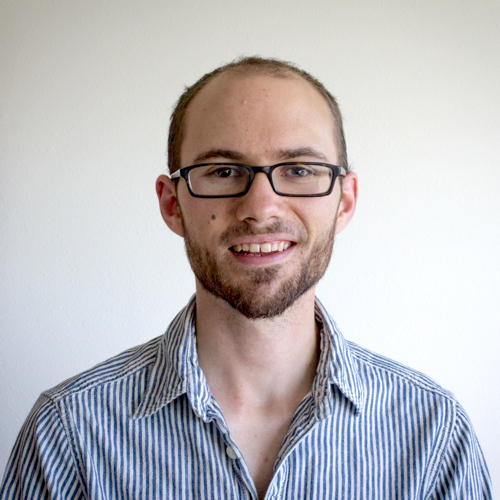
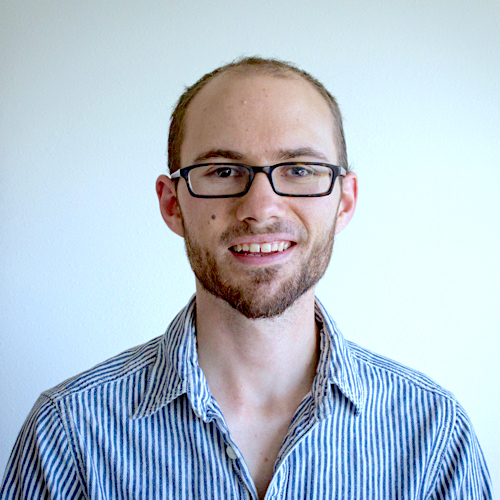
reformatted CSS

diff --git a/css/resume.css b/css/resume.css
@@ -1,142 +1,161 @@
 body {
-    font-family: 'Tenor Sans', sans-serif;
+    font-family: 'Roboto Slab', serif;
+    /* font-family: 'Tenor Sans', sans-serif; */
     padding-top: 54px;
-    color: #868e96; }
-
+    color: #F8F8FF;
+}
 @media (min-width: 992px) {
-  body {
-    padding-top: 0;
-    padding-left: 17rem; } }
+    body {
+        padding-top: 0;
+        padding-left: 17rem;
+    }
+}
 
 h1,
 h2,
 h3,
-h4,
 h5,
 h6 {
-    font-family: 'Archivo Black', sans-serif;
-  font-weight: 700;
-  text-transform: uppercase;
-  color: #343a40; }
+    font-family: 'Oxygen', sans-serif;
+    font-weight: 700;
+    text-transform: uppercase;
+}
 
 h1 {
-  font-size: 5rem;
-  line-height: 5.5rem; }
+    font-size: 5rem;
+    line-height: 5.5rem;
+}
 
 h2 {
-  font-size: 3.5rem; }
+    font-size: 3.5rem;
+}
+
+h4 {
+    font-family: 'Roboto Slab', serif;
+    text-transform: uppercase;
+}
 
 .subheading {
-  /*text-transform: uppercase;*/
-  font-weight: 500;
-  font-family: 'Archivo Black', sans-serif;
-  font-size: 1.35rem;
-  color: #2978A0;
+    font-weight: 500;
+    font-size: 1.35rem;
+    color: #157EFB;
 }
 
 .list-social-icons a {
-  color: #495057;
+    color: #F8F8FF;
 }
-  .list-social-icons a:hover {
-    color: #B4DAB9;
+.list-social-icons a:hover {
+    color: rgba(248, 248, 255, 0.8);
 }
-  .list-social-icons a .fa-lg {
+.list-social-icons a .fa-lg {
     font-size: 1.75rem;
 }
 
-.list-icons {
-  font-size: 3rem; }
-  .list-icons .list-inline-item i:hover {
-    color: #B4DAB9; }
-
 #sideNav .navbar-nav .nav-item .nav-link {
-  font-weight: 600;
-  text-transform: uppercase; }
-
+    font-weight: 600;
+    text-transform: uppercase;
+}
 @media (min-width: 992px) {
-  #sideNav {
-    text-align: center;
-    position: fixed;
-    top: 0;
-    left: 0;
-    display: flex;
-    flex-direction: column;
-    width: 17rem;
-    height: 100vh; }
+    #sideNav {
+        font-family: 'Oxygen', sans-serif;
+
+        text-align: center;
+        position: fixed;
+        top: 0;
+        left: 0;
+        display: flex;
+        flex-direction: column;
+        width: 17rem;
+        height: 100vh;
+    }
     #sideNav .navbar-brand {
-      display: flex;
-      margin: auto auto 0;
-      padding: 0.5rem; }
-      #sideNav .navbar-brand .img-profile {
+        display: flex;
+        margin: auto auto 0;
+        padding: 0.5rem;
+    }
+    #sideNav .navbar-brand .img-profile {
         max-width: 10rem;
         max-height: 10rem;
-        border: 0.5rem solid rgba(255, 255, 255, 0.2); }
+        border: 0.5rem solid rgba(255, 255, 255, 0.2);
+    }
     #sideNav .navbar-collapse {
-      display: flex;
-      align-items: flex-start;
-      flex-grow: 0;
-      width: 100%;
-      margin-bottom: auto; }
-      #sideNav .navbar-collapse .navbar-nav {
+        display: flex;
+        align-items: flex-start;
+        flex-grow: 0;
+        width: 100%;
+        margin-bottom: auto;
+    }
+    #sideNav .navbar-collapse .navbar-nav {
         flex-direction: column;
-        width: 100%; }
-        #sideNav .navbar-collapse .navbar-nav .nav-item {
-          display: block; }
-          #sideNav .navbar-collapse .navbar-nav .nav-item .nav-link {
-            display: block; } }
+        width: 100%;
+    }
+    #sideNav .navbar-collapse .navbar-nav .nav-item {
+        display: block;
+    }
+    #sideNav .navbar-collapse .navbar-nav .nav-item .nav-link {
+        display: block;
+    }
+}
 
 section.resume-section {
 
-  border-bottom: 1px solid #dee2e6;
-  padding-top: 5rem !important;
-  padding-bottom: 5rem !important; }
-  section.resume-section .resume-item .img-project {
-    min-width: none; }
-
+    padding-top: 5rem !important;
+    padding-bottom: 5rem !important;
+}
+section.resume-section .resume-item .img-project {
+    min-width: none;
+}
 @media (min-width: 768px) {
-  section.resume-section {
-    min-height: 100vh; }
+    section.resume-section {
+        min-height: 100vh;
+    }
     section.resume-section .resume-item .img-project {
-      min-width: 18rem; } }
-
+        min-width: 18rem;
+    }
+}
 @media (min-width: 992px) {
-  section.resume-section {
-    padding-top: 3rem !important;
-    padding-bottom: 3rem !important; } }
+    section.resume-section {
+        padding-top: 3rem !important;
+        padding-bottom: 3rem !important;
+    }
+}
 
-
+[class*=" devicon-"],
+[class^=devicon-] {
+    color: ghostwhite;
+}
 
 .bg-primary {
-  background-color: #B4DAB9 !important; }
+    background-color: #1434F7!important;
+}
 
-.text-primary {
-  color: #B4DAB9 !important; }
-
-a {
-  color: #B4DAB9; }
-  a:hover, a:focus, a:active {
-    color: #2978A0; }
+.heading-color {
+    color: #157EFB !important;
+}
 
 .img-profile {
-    filter: sepia(25%);
+    /* filter: sepia(25%); */
 }
 
 .img-project {
-        transition: ease-out;
-        transition-property: opacity;
-        transition-duration: 1s;
-        opacity: 0.5;
-    }
-
+    transition: ease-out;
+    transition-property: opacity;
+    transition-duration: 1s;
+    opacity: 0.5;
+}
 .img-project:hover {
-        transition: ease-in;
-        transition-property: opacity;
-        transition-duration: 1s;
-        opacity: 1.0;
-    }
+    transition: ease-in;
+    transition-property: opacity;
+    transition-duration: 1s;
+    opacity: 1.0;
+}
 
 section {
-    background-color: #ECE8DA;
+    background-color: #022F40;
+}
+
+.fa-inverse {
+    color: #1434F7;
 }
 /* Note to self:  */
 /* run CSS thru Auto Prefixer, then minifier, then link HTML to .min.css */

diff --git a/css/resume.min.css b/css/resume.min.css
@@ -1,1 +1,1 @@
-body{font-family:'Tenor Sans',sans-serif;padding-top:54px;color:#868e96}.subheading,h1,h2,h3,h4,h5,h6{font-family:'Archivo Black',sans-serif}h1,h2,h3,h4,h5,h6{font-weight:700;text-transform:uppercase;color:#343a40}h1{font-size:5rem;line-height:5.5rem}h2{font-size:3.5rem}.subheading{font-weight:500;font-size:1.35rem;color:#2978A0}.list-social-icons a{color:#495057}.list-icons .list-inline-item i:hover,.list-social-icons a:hover{color:#B4DAB9}.list-social-icons a .fa-lg{font-size:1.75rem}.list-icons{font-size:3rem}#sideNav .navbar-nav .nav-item .nav-link{font-weight:600;text-transform:uppercase}@media (min-width:992px){body{padding-top:0;padding-left:17rem}#sideNav{text-align:center;position:fixed;top:0;left:0;display:flex;flex-direction:column;width:17rem;height:100vh}#sideNav .navbar-brand{display:flex;margin:auto auto 0;padding:.5rem}#sideNav .navbar-brand .img-profile{max-width:10rem;max-height:10rem;border:.5rem solid rgba(255,255,255,.2)}#sideNav .navbar-collapse{display:flex;align-items:flex-start;flex-grow:0;width:100%;margin-bottom:auto}#sideNav .navbar-collapse .navbar-nav{flex-direction:column;width:100%}#sideNav .navbar-collapse .navbar-nav .nav-item,#sideNav .navbar-collapse .navbar-nav .nav-item .nav-link{display:block}}section.resume-section{border-bottom:1px solid #dee2e6;padding-top:5rem!important;padding-bottom:5rem!important}section.resume-section .resume-item .img-project{min-width:none}@media (min-width:768px){section.resume-section{min-height:100vh}section.resume-section .resume-item .img-project{min-width:18rem}}@media (min-width:992px){section.resume-section{padding-top:3rem!important;padding-bottom:3rem!important}}.bg-primary{background-color:#B4DAB9!important}.text-primary{color:#B4DAB9!important}a{color:#B4DAB9}a:active,a:focus,a:hover{color:#2978A0}.img-profile{filter:sepia(25%)}.img-project{transition:ease-out;transition-property:opacity;transition-duration:1s;opacity:.5}.img-project:hover{transition:ease-in;transition-property:opacity;transition-duration:1s;opacity:1}section{background-color:#ECE8DA}
+body{font-family:'Roboto Slab', serif;padding-top:54px;color:#F8F8FF}@media (min-width: 992px){body{padding-top:0;padding-left:17rem}}h1,h2,h3,h5,h6{font-family:'Oxygen', sans-serif;font-weight:700;text-transform:uppercase}h1{font-size:5rem;line-height:5.5rem}h2{font-size:3.5rem}h4{font-family:'Roboto Slab', serif;text-transform:uppercase}.subheading{font-weight:500;font-size:1.35rem;color:#157EFB}.list-social-icons a{color:#F8F8FF}.list-social-icons a:hover{color:rgba(248, 248, 255, 0.8)}.list-social-icons a .fa-lg{font-size:1.75rem}#sideNav .navbar-nav .nav-item .nav-link{font-weight:600;text-transform:uppercase}@media (min-width: 992px){#sideNav{font-family:'Oxygen', sans-serif;text-align:center;position:fixed;top:0;left:0;display:flex;flex-direction:column;width:17rem;height:100vh}#sideNav .navbar-brand{display:flex;margin:auto auto 0;padding:0.5rem}#sideNav .navbar-brand .img-profile{max-width:10rem;max-height:10rem;border:0.5rem solid rgba(255, 255, 255, 0.2)}#sideNav .navbar-collapse{display:flex;align-items:flex-start;flex-grow:0;width:100%;margin-bottom:auto}#sideNav .navbar-collapse .navbar-nav{flex-direction:column;width:100%}#sideNav .navbar-collapse .navbar-nav .nav-item{display:block}#sideNav .navbar-collapse .navbar-nav .nav-item .nav-link{display:block}}section.resume-section{padding-top:5rem !important;padding-bottom:5rem !important}section.resume-section .resume-item .img-project{min-width:none}@media (min-width: 768px){section.resume-section{min-height:100vh}section.resume-section .resume-item .img-project{min-width:18rem}}@media (min-width: 992px){section.resume-section{padding-top:3rem !important;padding-bottom:3rem !important}}[class*=" devicon-"],[class^=devicon-]{color:ghostwhite}.bg-primary{background-color:#1434F7!important}.heading-color{color:#157EFB !important}.img-profile{}.img-project{transition:ease-out;transition-property:opacity;transition-duration:1s;opacity:0.5}.img-project:hover{transition:ease-in;transition-property:opacity;transition-duration:1s;opacity:1.0}section{background-color:#022F40}.fa-inverse{color:#1434F7}

diff --git a/index.html b/index.html
@@ -18,14 +18,14 @@
 
 
     <!-- fonts -->
-    <link href="https://fonts.googleapis.com/css?family=Archivo+Black|Julius+Sans+One|Tenor+Sans" rel="stylesheet">
+    <link href="https://fonts.googleapis.com/css?family=Oxygen|Roboto+Slab" rel="stylesheet">
     <link href="vendor/font-awesome/css/font-awesome.min.css" rel="stylesheet">
     <link href="vendor/devicons/css/devicons.min.css" rel="stylesheet">
     <link href="vendor/simple-line-icons/css/simple-line-icons.css" rel="stylesheet">
 
     <!-- Custom styles for this template -->
-    <link href="css/resume.min.css" rel="stylesheet">
-
+    <!-- <link href="css/resume.min.css" rel="stylesheet"> -->
+    <link rel="stylesheet" href="css/resume.min.css">
   </head>
 
   <body id="page-top">
@@ -59,11 +59,10 @@
       <section class="resume-section p-3 p-lg-5 d-flex d-column" id="hello">
         <div class="my-auto">
           <h1 class="mb-0">David
-            <span class="text-primary">Clark</span>
+            <span class="heading-color">Clark</span>
           </h1>
-          <div class="subheading mb-5">Seattle, WA
-          </div>
-          <p class="mb-5">A self-taught web developer using empathy and excitement to steer my code.</p>
+          <h4><span class="heading-color">Web Developer</span> Seattle, WA
+          </h4><br><br>
           <ul class="list-inline list-social-icons mb-0">
             <li class="list-inline-item">
               <a href="https://www.linkedin.com/in/creativedavid/">
@@ -82,7 +81,7 @@
               </a>
             </li>
             <li class="list-inline-item">
-              <a href="https://medium.com/@davidlclark">
+              <a href="https://medium.com/l2code">
                 <span class="fa-stack fa-lg">
                   <i class="fa fa-circle fa-stack-2x"></i>
                   <i class="fa fa-medium fa-stack-1x fa-inverse"></i>
